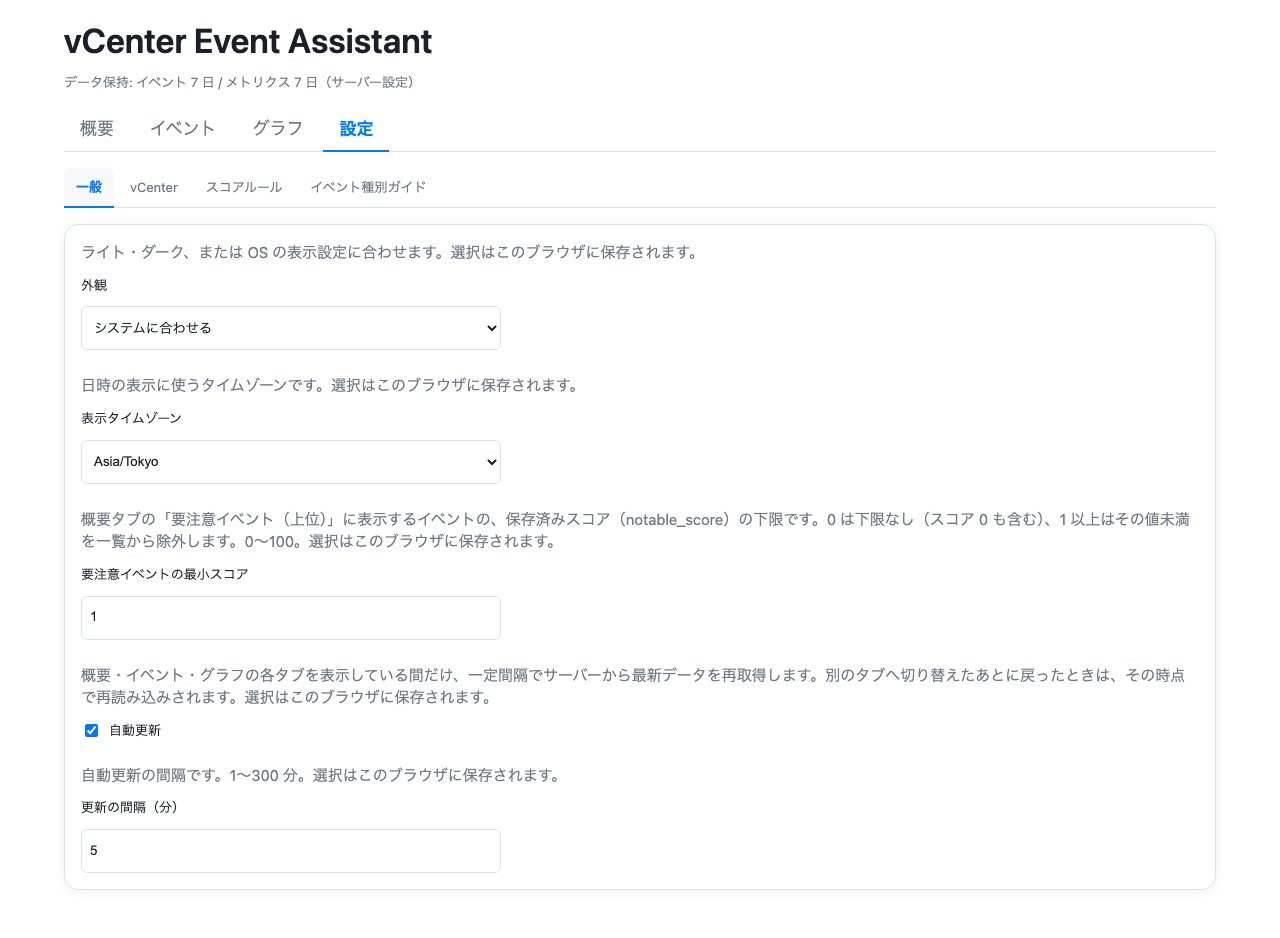
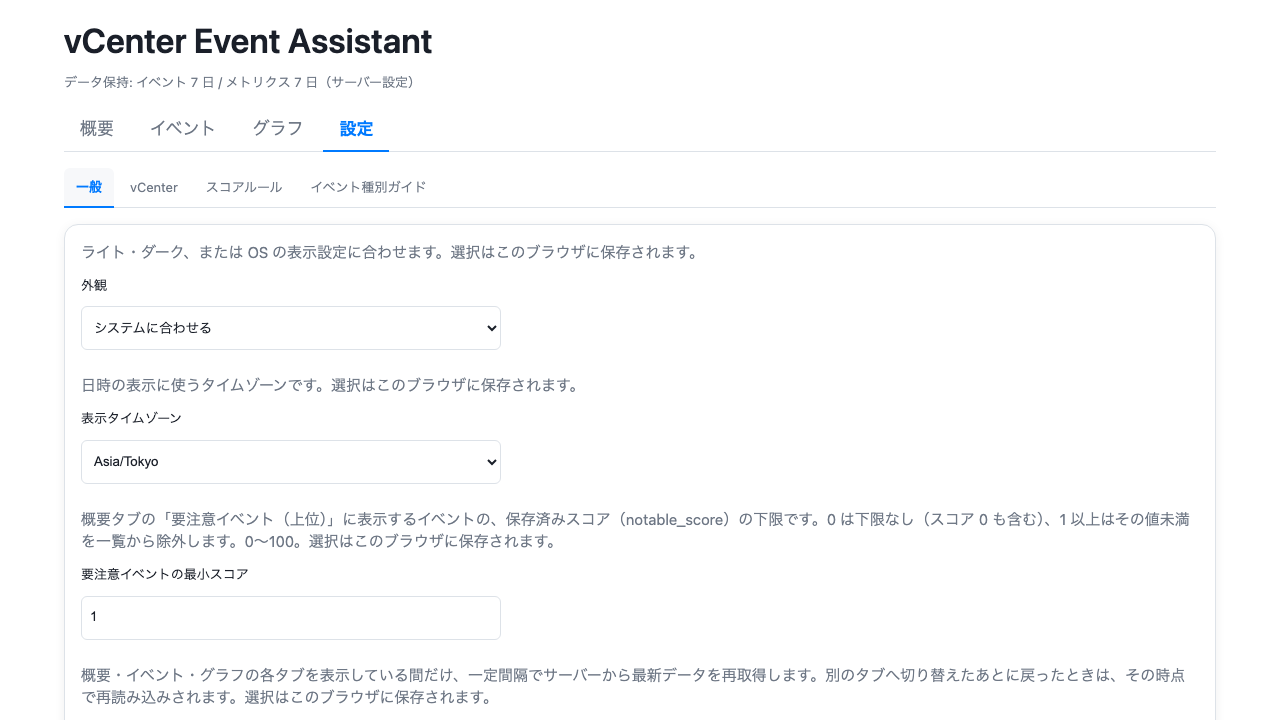
test(e2e): 固定ビューポートのドキュメント用スクリーンショットとガイド系キャプチャ
Playwright webServer に SCREENSHOT_E2E_SEED を付与。1280x720・fullPage false で
全 PNG を統一し、ガイド展開とイベント種別ガイド一覧を追加する。

Made-with: Cursor

diff --git a/frontend/e2e/screenshots.spec.ts b/frontend/e2e/screenshots.spec.ts
@@ -7,14 +7,25 @@ const __dirname = path.dirname(fileURLToPath(import.meta.url))
 /** リポジトリルートの `docs/images`（`frontend/e2e` → 2 階層上がルート） */
 const docsImagesDir = path.join(__dirname, '../../docs/images')
 
+/** ドキュメント用 PNG の共通ピクセル寸法（`fullPage: false` のビューポートと一致） */
+const DOC_SCREENSHOT_WIDTH = 1280
+const DOC_SCREENSHOT_HEIGHT = 720
+
 /**
  * ドキュメント用に主要タブの画面を `docs/images` に PNG 保存する。
  * 再取得手順はリポジトリルートの `docs/development.md` を参照。
+ *
+ * バックエンドは `SCREENSHOT_E2E_SEED=1`（Playwright `webServer` 既定）で
+ * ガイド付きイベント等をメモリ DB に挿入する。
  */
 test('主要画面のスクリーンショットを docs/images に保存', async ({ page }) => {
   mkdirSync(docsImagesDir, { recursive: true })
 
   await page.goto('/')
+  await page.setViewportSize({
+    width: DOC_SCREENSHOT_WIDTH,
+    height: DOC_SCREENSHOT_HEIGHT,
+  })
   await expect(
     page.getByRole('heading', { name: 'vCenter Event Assistant' }),
   ).toBeVisible()
@@ -23,15 +34,23 @@ test('主要画面のスクリーンショットを docs/images に保存', asyn
   await expect(page.getByText('登録 vCenter', { exact: true })).toBeVisible()
   await page.screenshot({
     path: path.join(docsImagesDir, 'summary.png'),
-    fullPage: true,
+    fullPage: false,
   })
 
   await page.getByRole('button', { name: 'イベント' }).click()
-  // 0 件時は「全 0 件」、1 件以上は「全 N 件中 …」のいずれか
   await expect(page.getByText(/全 \d+ 件/)).toBeVisible()
   await page.screenshot({
     path: path.join(docsImagesDir, 'events.png'),
-    fullPage: true,
+    fullPage: false,
+  })
+
+  const guideDetails = page.locator('td.event-type-guide-cell details.event-type-guide-details').first()
+  await guideDetails.locator('summary').click()
+  await expect(page.getByText('一般的な意味', { exact: true }).first()).toBeVisible()
+  await guideDetails.scrollIntoViewIfNeeded()
+  await page.screenshot({
+    path: path.join(docsImagesDir, 'events-event-type-guide-expanded.png'),
+    fullPage: false,
   })
 
   await page.getByRole('button', { name: 'グラフ' }).click()
@@ -39,7 +58,7 @@ test('主要画面のスクリーンショットを docs/images に保存', asyn
   await expect(page.getByLabel('メトリクスキー')).toBeVisible()
   await page.screenshot({
     path: path.join(docsImagesDir, 'metrics.png'),
-    fullPage: true,
+    fullPage: false,
   })
 
   await page.getByRole('button', { name: '設定' }).click()
@@ -47,14 +66,14 @@ test('主要画面のスクリーンショットを docs/images に保存', asyn
   await expect(page.getByLabel('外観')).toBeVisible()
   await page.screenshot({
     path: path.join(docsImagesDir, 'settings-general.png'),
-    fullPage: true,
+    fullPage: false,
   })
 
   await page.getByRole('button', { name: 'vCenter' }).click()
   await expect(page.getByRole('heading', { name: '登録' })).toBeVisible()
   await page.screenshot({
     path: path.join(docsImagesDir, 'settings-vcenters.png'),
-    fullPage: true,
+    fullPage: false,
   })
 
   await page.getByRole('button', { name: 'スコアルール' }).click()
@@ -65,6 +84,18 @@ test('主要画面のスクリーンショットを docs/images に保存', asyn
   ).toBeVisible()
   await page.screenshot({
     path: path.join(docsImagesDir, 'settings-score-rules.png'),
-    fullPage: true,
+    fullPage: false,
+  })
+
+  await page.getByRole('button', { name: 'イベント種別ガイド' }).click()
+  await expect(
+    page.getByText('イベント種別（event_type、収集ログの種別文字列と完全一致）ごとに', {
+      exact: false,
+    }),
+  ).toBeVisible()
+  await page.locator('.event-type-guides-list').scrollIntoViewIfNeeded()
+  await page.screenshot({
+    path: path.join(docsImagesDir, 'settings-event-type-guides-list.png'),
+    fullPage: false,
   })
 })

diff --git a/frontend/playwright.config.ts b/frontend/playwright.config.ts
@@ -34,7 +34,7 @@ export default defineConfig({
   webServer: useExistingServerOnly
     ? undefined
     : {
-        command: `DATABASE_URL=sqlite+aiosqlite:///:memory: SCHEDULER_ENABLED=false uv run uvicorn vcenter_event_assistant.main:create_app --factory --host 127.0.0.1 --port ${port}`,
+        command: `DATABASE_URL=sqlite+aiosqlite:///:memory: SCHEDULER_ENABLED=false SCREENSHOT_E2E_SEED=1 uv run uvicorn vcenter_event_assistant.main:create_app --factory --host 127.0.0.1 --port ${port}`,
         cwd: repoRoot,
         url: `${baseURL}/health`,
         reuseExistingServer: !process.env.CI,
